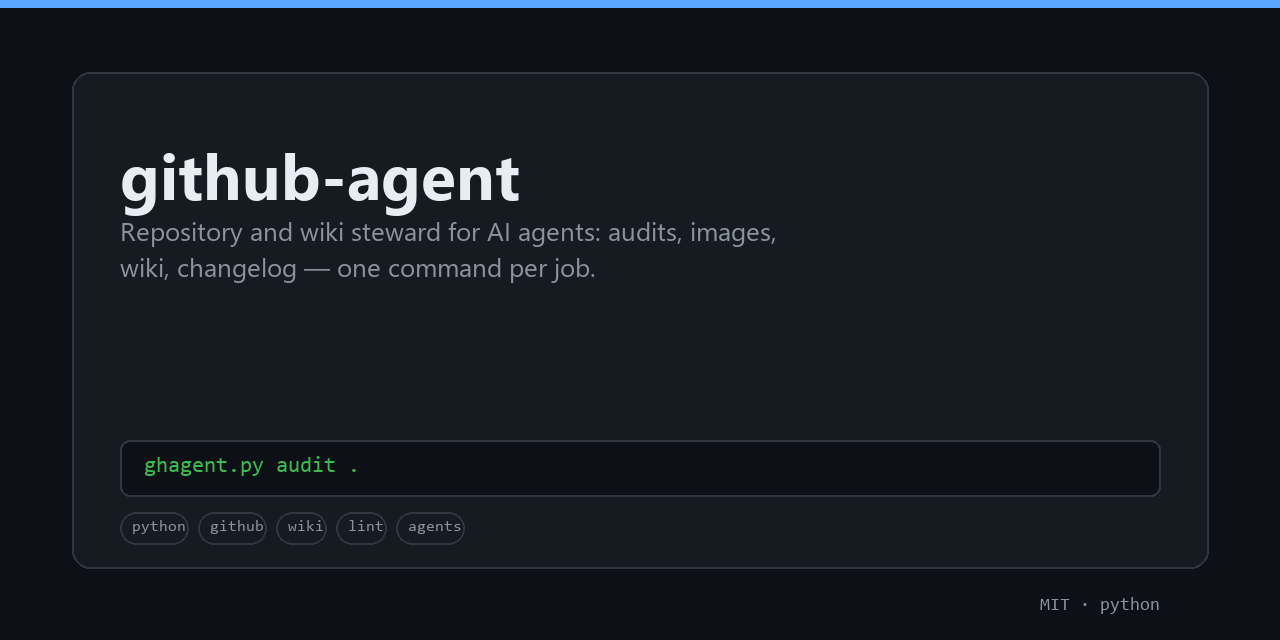
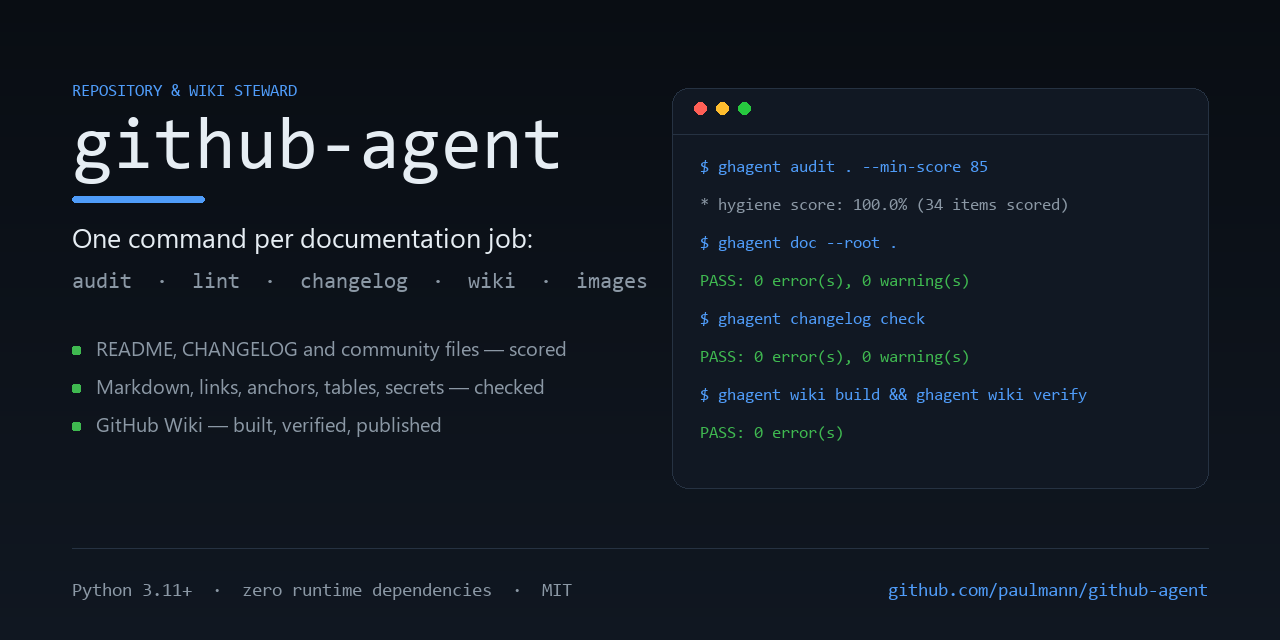
feat(assets): a designed social preview the repository can regenerate
GitHub shows the card at roughly 400 pixels wide, so it carries one name, one sentence and
three claims: everything else turns into grey texture at that size.

- `tools/make_social_preview.py` renders `assets/social-preview.png` and its SVG twin from a
  single layout description, with Pillow drawing one and the SVG carrying the same
  coordinates — the two files can no longer drift apart;
- the right-hand panel repeats output the tool actually prints, so the picture cannot claim a
  result the tool did not produce;
- the footer states the runtime cost (`Python 3.11+ · zero runtime dependencies · MIT`) and
  the repository URL, which is what a reader of a link preview wants first;
- `assets/social-preview.png` / `.svg` replaced with the card (1280×640, 63 KB).

Fixed along the way: the pack hygiene test walked build output, so a single `python -m build`
turned the gate red for a file nobody ships. It now skips the same directories the document
walker skips.

Gates: 194/194 self-tests, doc and audit clean, changelog clean, ruff and mypy clean.

diff --git a/tools/make_social_preview.py b/tools/make_social_preview.py
@@ -1,0 +1,272 @@
+#!/usr/bin/env python3
+"""Render the repository's social preview: `assets/social-preview.png` and its SVG twin.
+
+GitHub shows the social preview wherever the repository is linked, at roughly 400 pixels wide,
+so the card carries one name, one sentence and three claims — anything else turns into grey
+noise at that size. The terminal panel repeats output the tool actually prints, which is why it
+can be believed.
+
+    python tools/make_social_preview.py [--write]
+
+One layout description, two renderers: the PNG is drawn with Pillow (the `png` extra), the SVG
+carries the same coordinates so the pair cannot drift. Without Pillow the command exits 2 and
+says why, like every other optional-dependency path in this pack.
+"""
+
+from __future__ import annotations
+
+import argparse
+import sys
+from dataclasses import dataclass, field
+from pathlib import Path
+
+ROOT = Path(__file__).resolve().parent.parent
+WIDTH, HEIGHT = 1280, 640
+
+BG_TOP = (9, 13, 19)
+BG_BOTTOM = (16, 23, 33)
+PANEL = (17, 24, 35)
+PANEL_EDGE = (38, 50, 66)
+TEXT = (230, 237, 243)
+MUTED = (139, 152, 165)
+ACCENT = (79, 156, 249)
+GREEN = (63, 185, 80)
+AMBER = (210, 153, 34)
+
+MONO = "C:/Windows/Fonts/consola.ttf"
+MONO_LINUX = "/usr/share/fonts/truetype/dejavu/DejaVuSansMono.ttf"
+SANS_BOLD = "C:/Windows/Fonts/segoeuib.ttf"
+SANS_BOLD_LINUX = "/usr/share/fonts/truetype/dejavu/DejaVuSans-Bold.ttf"
+SANS = "C:/Windows/Fonts/segoeui.ttf"
+SANS_LINUX = "/usr/share/fonts/truetype/dejavu/DejaVuSans.ttf"
+
+
+@dataclass
+class Element:
+    """One drawing instruction, understood by both renderers."""
+
+    kind: str                     # rect | line | text | dots
+    box: tuple = ()               # rect: (x, y, w, h, radius)
+    points: tuple = ()            # line: (x1, y1, x2, y2, width)
+    text: str = ""
+    at: tuple = ()                # text: (x, y)
+    size: int = 16
+    colour: tuple = TEXT
+    font: str = "mono"            # mono | sans | sans-bold
+    anchor: str = "start"
+    fill: tuple | None = None     # rect fill; None means no fill
+
+
+@dataclass
+class Card:
+    elements: list[Element] = field(default_factory=list)
+    gradient: bool = True
+
+
+def measure(font_path: str, size: int, text: str) -> float:
+    from PIL import ImageFont
+    for candidate in (font_path, SANS, SANS_LINUX):
+        if Path(candidate).exists():
+            return ImageFont.truetype(candidate, size).getlength(text)
+    return len(text) * size * 0.55
+
+
+def wrap(text: str, font_path: str, size: int, limit: int) -> list[str]:
+    words, lines, current = text.split(), [], ""
+    for word in words:
+        candidate = f"{current} {word}".strip()
+        if not current or measure(font_path, size, candidate) <= limit:
+            current = candidate
+            continue
+        lines.append(current)
+        current = word
+    if current:
+        lines.append(current)
+    return lines
+
+
+def build() -> Card:
+    card = Card()
+    add = card.elements.append
+
+    # Left column: identity, one sentence, three claims.
+    x = 72
+    add(Element("text", at=(x, 96), text="REPOSITORY & WIKI STEWARD", size=17,
+                colour=ACCENT, font="mono"))
+    add(Element("text", at=(x, 168), text="github-agent", size=74, colour=TEXT, font="mono"))
+    add(Element("rect", box=(x, 196, 132, 6, 3), colour=ACCENT, fill=ACCENT))
+
+    add(Element("text", at=(x, 248), text="One command per documentation job:", size=27,
+                colour=TEXT, font="sans"))
+    add(Element("text", at=(x, 288), text="audit  ·  lint  ·  changelog  ·  wiki  ·  images", size=22,
+                colour=MUTED, font="mono"))
+
+    bullets = [
+        "README, CHANGELOG and community files — scored",
+        "Markdown, links, anchors, tables, secrets — checked",
+        "GitHub Wiki — built, verified, published",
+    ]
+    y = 356
+    for bullet in bullets:
+        add(Element("rect", box=(x, y - 10, 8, 8, 2), colour=GREEN, fill=GREEN))
+        add(Element("text", at=(x + 24, y), text=bullet, size=20, colour=MUTED, font="sans"))
+        y += 38
+
+    # Right: a terminal panel with output the tool really prints.
+    px, py, pw, ph = 672, 88, 536, 400
+    add(Element("rect", box=(px, py, pw, ph, 16), colour=PANEL_EDGE, fill=PANEL))
+    add(Element("dots", at=(px + 22, py + 20)))
+    add(Element("line", points=(px, py + 46, px + pw, py + 46, 1), colour=PANEL_EDGE))
+
+    lines = [
+        ("$ ghagent audit . --min-score 85", ACCENT),
+        ("* hygiene score: 100.0% (34 items scored)", MUTED),
+        ("$ ghagent doc --root .", ACCENT),
+        ("PASS: 0 error(s), 0 warning(s)", GREEN),
+        ("$ ghagent changelog check", ACCENT),
+        ("PASS: 0 error(s), 0 warning(s)", GREEN),
+        ("$ ghagent wiki build && ghagent wiki verify", ACCENT),
+        ("PASS: 0 error(s)", GREEN),
+    ]
+    y = py + 84
+    for line, colour in lines:
+        add(Element("text", at=(px + 28, y), text=line, size=17, colour=colour, font="mono"))
+        y += 38
+
+    # Bottom strip: what it costs to run, and where it lives.
+    add(Element("line", points=(72, 548, 1208, 548, 1), colour=PANEL_EDGE))
+    add(Element("text", at=(72, 596), text="Python 3.11+  ·  zero runtime dependencies  ·  MIT",
+                size=19, colour=MUTED, font="mono"))
+    add(Element("text", at=(1208, 596), text="github.com/paulmann/github-agent", size=19,
+                colour=ACCENT, font="mono", anchor="end"))
+    return card
+
+
+# --------------------------------------------------------------------------
+# renderers
+# --------------------------------------------------------------------------
+
+def _font_path(kind: str) -> str:
+    if kind == "mono":
+        return MONO if Path(MONO).exists() else MONO_LINUX
+    if kind == "sans-bold":
+        return SANS_BOLD if Path(SANS_BOLD).exists() else SANS_BOLD_LINUX
+    return SANS if Path(SANS).exists() else SANS_LINUX
+
+
+def render_png(card: Card) -> bytes:
+    from io import BytesIO
+
+    from PIL import Image, ImageDraw, ImageFont
+
+    image = Image.new("RGB", (WIDTH, HEIGHT), BG_TOP)
+    draw = ImageDraw.Draw(image)
+    for row in range(HEIGHT):
+        ratio = row / (HEIGHT - 1)
+        colour = tuple(round(a + (b - a) * ratio) for a, b in zip(BG_TOP, BG_BOTTOM))
+        draw.line([(0, row), (WIDTH, row)], fill=colour)
+
+    for element in card.elements:
+        if element.kind == "rect":
+            x, y, w, h, radius = element.box
+            draw.rounded_rectangle([x, y, x + w, y + h], radius=radius,
+                                   fill=element.fill, outline=element.colour, width=1)
+        elif element.kind == "line":
+            x1, y1, x2, y2, width = element.points
+            draw.line([(x1, y1), (x2, y2)], fill=element.colour, width=width)
+        elif element.kind == "dots":
+            cx, cy = element.at
+            for index, colour in enumerate(((255, 95, 86), (255, 189, 46), (39, 201, 63))):
+                draw.ellipse([cx + index * 22, cy - 6, cx + index * 22 + 12, cy + 6], fill=colour)
+        elif element.kind == "text":
+            font = ImageFont.truetype(_font_path(element.font), element.size)
+            tx, ty = element.at
+            if element.anchor == "end":
+                tx -= font.getlength(element.text)
+            draw.text((tx, ty), element.text, font=font, fill=element.colour, anchor="ls")
+
+    buffer = BytesIO()
+    image.save(buffer, format="PNG", optimize=True)
+    return buffer.getvalue()
+
+
+def _svg_colour(colour: tuple) -> str:
+    return "#%02x%02x%02x" % colour
+
+
+def render_svg(card: Card) -> str:
+    parts = [
+        f'<svg xmlns="http://www.w3.org/2000/svg" width="{WIDTH}" height="{HEIGHT}" '
+        f'viewBox="0 0 {WIDTH} {HEIGHT}" role="img" aria-label="github-agent — repository and wiki steward">',
+        "  <defs>",
+        '    <linearGradient id="bg" x1="0" y1="0" x2="0" y2="1">',
+        f'      <stop offset="0" stop-color="{_svg_colour(BG_TOP)}"/>',
+        f'      <stop offset="1" stop-color="{_svg_colour(BG_BOTTOM)}"/>',
+        "    </linearGradient>",
+        "  </defs>",
+        f'  <rect width="{WIDTH}" height="{HEIGHT}" fill="url(#bg)"/>',
+        f'  <rect x="0" y="0" width="{WIDTH}" height="6" fill="{_svg_colour(ACCENT)}"/>',
+    ]
+    families = {"mono": "Consolas, 'DejaVu Sans Mono', monospace",
+                "sans": "'Segoe UI', 'DejaVu Sans', sans-serif",
+                "sans-bold": "'Segoe UI', 'DejaVu Sans', sans-serif"}
+    for element in card.elements:
+        if element.kind == "rect":
+            x, y, w, h, radius = element.box
+            fill = _svg_colour(element.fill) if element.fill else "none"
+            parts.append(f'  <rect x="{x}" y="{y}" width="{w}" height="{h}" rx="{radius}" '
+                         f'fill="{fill}" stroke="{_svg_colour(element.colour)}" stroke-width="1"/>')
+        elif element.kind == "line":
+            x1, y1, x2, y2, width = element.points
+            parts.append(f'  <line x1="{x1}" y1="{y1}" x2="{x2}" y2="{y2}" '
+                         f'stroke="{_svg_colour(element.colour)}" stroke-width="{width}"/>')
+        elif element.kind == "dots":
+            cx, cy = element.at
+            for index, colour in enumerate(((255, 95, 86), (255, 189, 46), (39, 201, 63))):
+                parts.append(f'  <circle cx="{cx + index * 22 + 6}" cy="{cy}" r="6" '
+                             f'fill="{_svg_colour(colour)}"/>')
+        elif element.kind == "text":
+            x, y = element.at
+            anchor = "end" if element.anchor == "end" else "start"
+            parts.append(
+                f'  <text x="{x}" y="{y}" font-family="{families[element.font]}" '
+                f'font-size="{element.size}" fill="{_svg_colour(element.colour)}" '
+                f'text-anchor="{anchor}">{_escape(element.text)}</text>')
+    parts.append("</svg>")
+    return "\n".join(parts) + "\n"
+
+
+def _escape(text: str) -> str:
+    return (text.replace("&", "&amp;").replace("<", "&lt;").replace(">", "&gt;")
+            .replace("*", ""))
+
+
+def main(argv: list[str] | None = None) -> int:
+    parser = argparse.ArgumentParser(description="Render the social preview")
+    parser.add_argument("--write", action="store_true")
+    args = parser.parse_args(argv)
+
+    card = build()
+    svg = render_svg(card)
+    try:
+        png = render_png(card)
+    except ImportError:
+        print('ghagent: Pillow is required to render the preview; install "github-agent-cli[png]"',
+              file=sys.stderr)
+        return 2
+
+    png_path = ROOT / "assets" / "social-preview.png"
+    svg_path = ROOT / "assets" / "social-preview.svg"
+    print(f"png: {len(png)} bytes, svg: {len(svg)} bytes, {WIDTH}x{HEIGHT}")
+    if not args.write:
+        print("dry run; pass --write to replace the files under assets/")
+        return 0
+    png_path.parent.mkdir(parents=True, exist_ok=True)
+    png_path.write_bytes(png)
+    svg_path.write_text(svg, encoding="utf-8", newline="\n")
+    print(f"written {png_path.relative_to(ROOT)} and {svg_path.relative_to(ROOT)}")
+    return 0
+
+
+if __name__ == "__main__":
+    sys.exit(main())

diff --git a/tests/run_tests.py b/tests/run_tests.py
@@ -33,6 +33,8 @@ from ghalib import meta as meta_module  # noqa: E402
 from ghalib import report as report_module  # noqa: E402
 from ghalib import wiki as wiki_module  # noqa: E402
 from ghalib.util import (  # noqa: E402
+    EXCLUDED_DIRS,
+    HIDDEN_DIR_ALLOWLIST,
     PACK_NAME,
     PACK_VERSION,
     Report,
@@ -1201,8 +1203,16 @@ def test_assets(tmp: Path) -> None:
 def test_pack_hygiene() -> None:
     """The pack must ship without BOM, CRLF, machine paths or personal addresses."""
     offenders: list[str] = []
+    # Build output and tool state are not part of the published tree: `python -m build` writes
+    # its own files, and the gate used to go red for a file nobody ships.
+    ignored = set(EXCLUDED_DIRS)
     for path in sorted(PACK.rglob("*")):
         if not path.is_file() or ".git" in path.parts or "__pycache__" in path.parts:
+            continue
+        directories = path.relative_to(PACK).parts[:-1]
+        if any(part in ignored for part in directories):
+            continue
+        if any(part.startswith(".") and part not in HIDDEN_DIR_ALLOWLIST for part in directories):
             continue
         if path.name == ".install.json" or ".ghagent" in path.parts:
             continue    # machine-local artefacts, gitignored, never published

diff --git a/CHANGELOG.ru.md b/CHANGELOG.ru.md
@@ -6,6 +6,23 @@
 
 ## [Unreleased]
 
+### Добавлено
+
+- `tools/make_social_preview.py`: собственная карточка социального превью репозитория, из одного
+  описания раскладки в `assets/social-preview.png` **и** его SVG-двойник — пара не может
+  разъехаться. На карточке имя, одно предложение, три утверждения и терминал с выводом, который
+  инструмент действительно печатает.
+
+### Изменено
+
+- `assets/social-preview.png` и `assets/social-preview.svg` — теперь оформленная карточка
+  (1280×640, 63 КБ) вместо типового вывода `assets render`.
+
+### Исправлено
+
+- Тест гигиены пакета пропускал вывод сборки и состояние инструментов: один `python -m build`
+  писал свои файлы в `dist/` и ронял гейт за файл, который никто не публикует.
+
 ## [1.3.0] - 2026-11-01
 
 ### Добавлено

diff --git a/CHANGELOG.md b/CHANGELOG.md
@@ -6,6 +6,23 @@ All notable changes to this project are documented here. The format is
 
 ## [Unreleased]
 
+### Added
+
+- `tools/make_social_preview.py`: the repository's own social preview, rendered from one layout
+description into `assets/social-preview.png` **and** its SVG twin, so the pair cannot drift. The
+card carries the name, one sentence, three claims and a terminal panel with output the tool
+really prints.
+
+### Changed
+
+- `assets/social-preview.png` and `assets/social-preview.svg` are the designed card now (1280×640,
+  63 KB) instead of the generic `assets render` output.
+
+### Fixed
+
+- The pack hygiene test skipped build output and tool state: one `python -m build` wrote its own
+  files under `dist/` and turned the gate red for a file nobody ships.
+
 ## [1.3.0] - 2026-11-01
 
 ### Added

diff --git a/docs/RULES.md b/docs/RULES.md
@@ -298,6 +298,12 @@ The chip row describes what the project *is*: declared keywords first, the top l
 fallback. Emoji from a `README` H1 are stripped — the font set has no colour glyphs, so they land
 as a box.
 
+`assets render` is the generic generator: it reads the repository and draws a card that any project
+can use. This repository's own card is a designed one, and it is still reproducible:
+`python tools/make_social_preview.py --write` renders both `assets/social-preview.png` and its SVG
+twin from a single layout description, so the two files cannot drift apart. The terminal panel in
+it repeats output the tool actually prints, which is the only reason the picture can be trusted.
+
 ## Metadata
 
 | Rule id | Level | What it checks |
